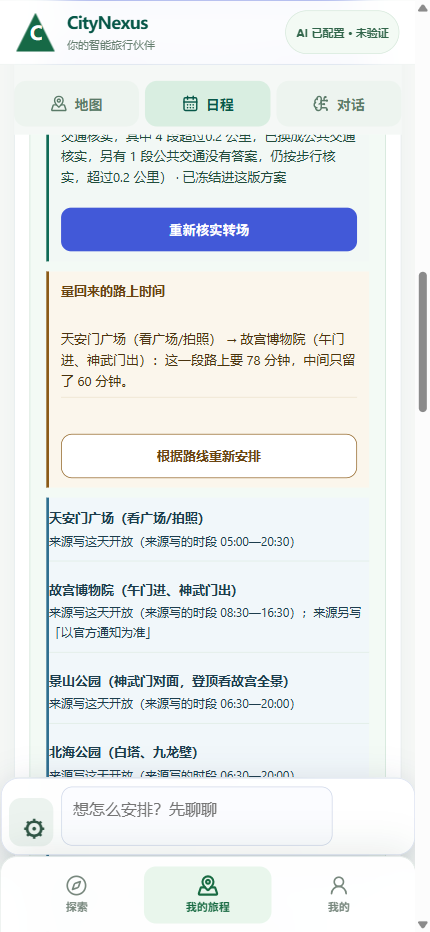
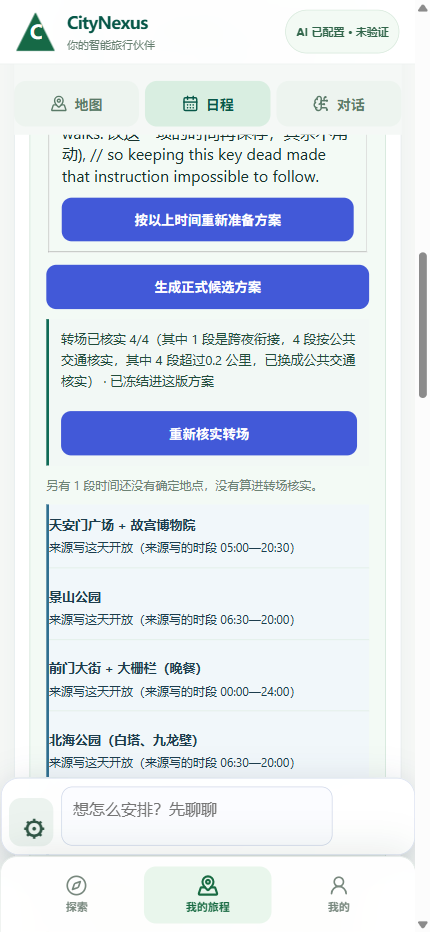
docs(go-from-blank): ledger section 12.6 -- a third round, and the city refusal still refuses to appear
bj115's second run on the tip stack saved six items, froze its routes, and then showed no shortfall card at
all (rev-v3-travel-gaps count=0), so neither the re-plan key nor the city refusal was reachable in that
round.  Across three rounds the accept key is witnessed twice on two generations and the new city sentence
zero times on screen: that stays recorded as unproven rather than converted into a claim.  The one positive
side-reading is that the gap block is genuinely conditional -- it is not a permanent panel that always offers
a re-plan.  Frames named 430-bj115-* now hold this newest round for the three files this run wrote; the
after-replan and after-apply frames still belong to the first round, whose receipts are committed in
b1c7bd4167.

diff --git a/trial/results/20261026_GO_FROM_BLANK_REPORT.md b/trial/results/20261026_GO_FROM_BLANK_REPORT.md
@@ -2783,3 +2783,13 @@ blob 逐位相同（`e612908c2c…`、`e7b8b738bf…`）。这段窗口内那台
 bf110 r4 里，按过「根据路线重新安排」之后卡片变长，缺口那一行被顶到 `box=296x75@66` 且 `hitSelf=false`
 （中心点被上方固定层接走），而接受键自身 `hitSelf=true`。旅客要点的键没被压，被压的是那行读数；
 要不要给这段也做让位，属 #305/#306 那一族的取舍，留给号令者或主人点头，我没有顺手改。
+### 12.6 又跑了一趟，仍然没有撞见那一拒（把"没证到"写实）
+
+bj115 的第二趟（`trial/results/20261026_gozero/bj115-named-sentence-tip-generation-430-r2.txt`，同一台现尖栈、
+又一个全新空库、同一句话术）：`prepare-plan 201` →「已保存 6 项正式安排。」→ `freeze-routes 200`，
+之后 `REPLAN_DOOR replan=0 reverify=0`，缺口卡片整块没挂 —— 这一轮连"短在哪一段"都没有，所以既没有
+重新安排键，也没有城市那一拒。三趟合计：接受键那条链在两代上各证到一次（§12.1），城市新句子 0 次屏上出现。
+要再撞那一拒只能继续开新轮，不可预置也不能构造性触发；这条账保持"未证"，不折算成已修好。
+
+顺带一条正面读数：缺口块在"什么都不缺"的时候确实不挂（`count=0`），所以 §12.1 里 `count=1` 不是常驻装饰，
+这个门是按实测结果开合的。

diff --git a/trial/human_walk/_ledger_section12_6_r115.md b/trial/human_walk/_ledger_section12_6_r115.md
@@ -1,0 +1,10 @@
+### 12.6 又跑了一趟，仍然没有撞见那一拒（把"没证到"写实）
+
+bj115 的第二趟（`trial/results/20261026_gozero/bj115-named-sentence-tip-generation-430-r2.txt`，同一台现尖栈、
+又一个全新空库、同一句话术）：`prepare-plan 201` →「已保存 6 项正式安排。」→ `freeze-routes 200`，
+之后 `REPLAN_DOOR replan=0 reverify=0`，缺口卡片整块没挂 —— 这一轮连"短在哪一段"都没有，所以既没有
+重新安排键，也没有城市那一拒。三趟合计：接受键那条链在两代上各证到一次（§12.1），城市新句子 0 次屏上出现。
+要再撞那一拒只能继续开新轮，不可预置也不能构造性触发；这条账保持"未证"，不折算成已修好。
+
+顺带一条正面读数：缺口块在"什么都不缺"的时候确实不挂（`count=0`），所以 §12.1 里 `count=1` 不是常驻装饰，
+这个门是按实测结果开合的。
